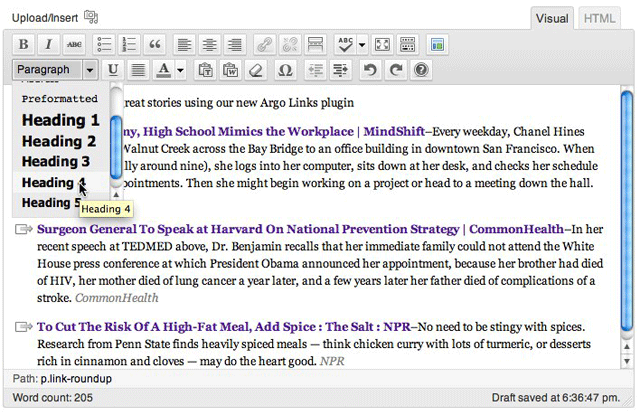
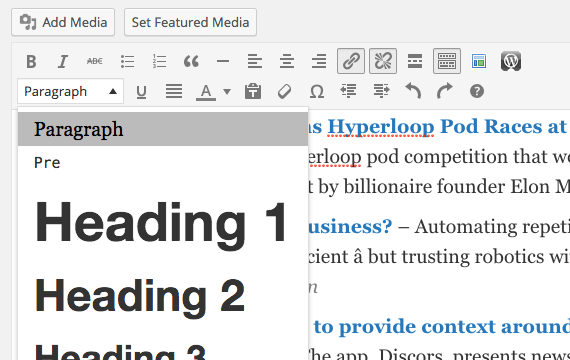
Update link roundup screenshots

diff --git a/docs/link-roundups.md b/docs/link-roundups.md
@@ -14,7 +14,7 @@ Select the links that you would like to add to your roundup by selecting the che
 
 The Recent Roundup Links section will show a maximum of 15 links at a time. Use the pagination to view additional links. You will need to click the "send links to editor window" button for each view. Say for example you have a link on the second page of results and three links on the first page of results that comprise your roundup. You will need to click the "send links to editor window" twice. Once for the first page of results and once for the second page of results.
 
-Once you have the links that make up your roundup in the editor window, you can edit the links, change the description and make any adjustments that you'd make to a normal post. If you'd like to add a description to the post, go to the first line of the roundup and add a new line. You'll likely notice that the roundup icon that appears to the left of new roundup links appears on the blank line. To remove this icon, select "Heading 4" from the formatting menu.
+Once you have the links that make up your roundup in the editor window, you can edit the links, change the description and make any adjustments that you'd make to a normal post. If you'd like to add a description to the post, go to the first line of the roundup and add a new line. You'll likely notice that the roundup icon that appears to the left of new roundup links appears on the blank line. To remove this icon, select "Paragraph" from the formatting menu and the formatting will be removed.
 
 ![Screenshot showing the post editor](img/link-roundup-heading.png)
 
